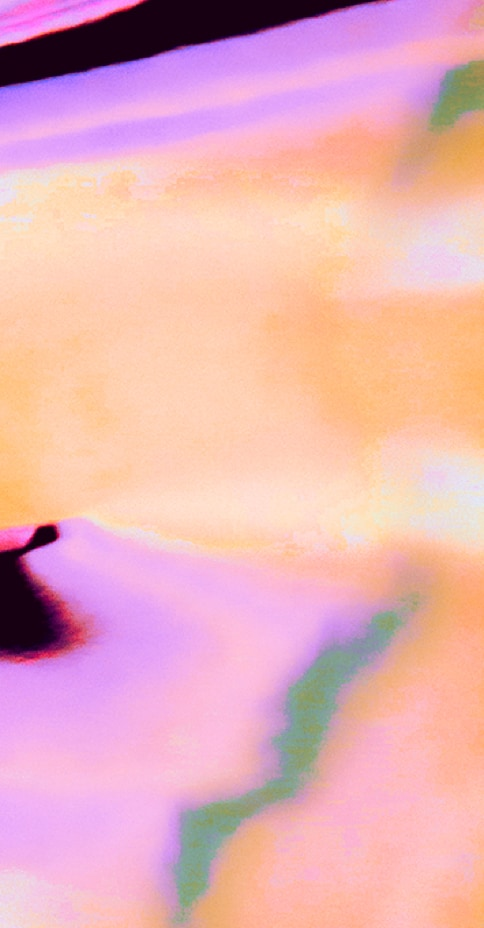
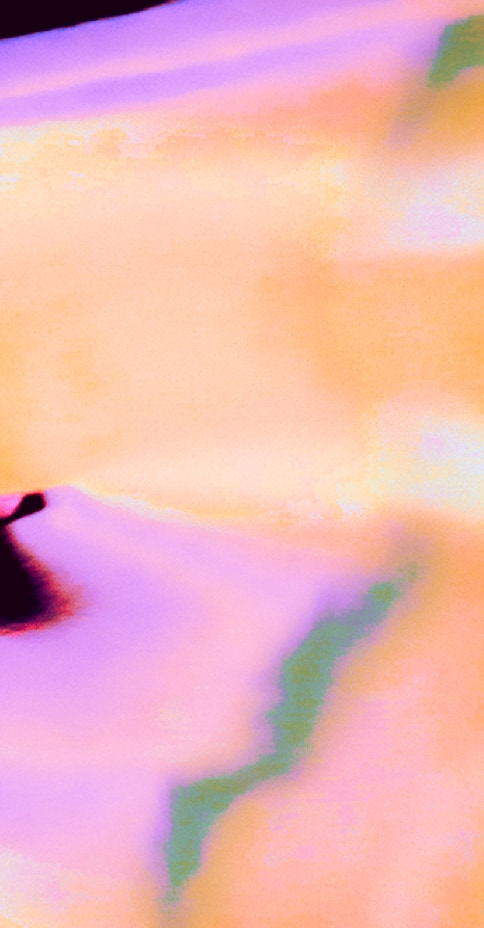
Card Cards Cards

diff --git a/src/components/sections/SpendenSection.js b/src/components/sections/SpendenSection.js
@@ -4,9 +4,9 @@ import TicketCard from "../cards/TicketCard"
 import { Link } from "gatsby"
 import FormButton from "../buttons/FormButton"
 
-import Background1 from "/static/images/Card-Bg1.jpg"
-import Background2 from "/static/images/Card-Bg2.jpg"
-import Background3 from "/static/images/Card-Bg3.jpg"
+import Background4 from "/static/images/Card-Bg4.jpg"
+import Background5 from "/static/images/Card-Bg5.jpg"
+import Background6 from "/static/images/Card-Bg6.jpg"
 
 export default function SpendenSection(props) {
   const [isCard1, setIsCard1] = useState(true)
@@ -34,7 +34,7 @@ export default function SpendenSection(props) {
               setIsCard3(false)
             }}
             singleLineDetail={true}
-            cardBackground={Background1}
+            cardBackground={Background4}
           />
           <TicketCard
             title="Initiative Musik"
@@ -52,7 +52,7 @@ export default function SpendenSection(props) {
               setIsCard2(true)
               setIsCard3(false)
             }}
-            cardBackground={Background2}
+            cardBackground={Background5}
           />
           <TicketCard
             title="Corona Künstler Hilfe"
@@ -71,7 +71,7 @@ export default function SpendenSection(props) {
               setIsCard3(true)
             }}
             singleLineDetail={true}
-            cardBackground={Background3}
+            cardBackground={Background6}
           />
         </CardWrapper>
         <ShoppingCartWrapper>

diff --git a/src/components/sections/HeroSection.js b/src/components/sections/HeroSection.js
@@ -36,7 +36,7 @@ export default function HeroSection() {
           <ImageWrapper>
             <LogoGroup>
               <Logo src="/images/Logo.png" className="logo" />
-              {/* <TicketWrapper>
+              <TicketWrapper>
                 <TicketGroup
                   to={audienceCount < maxAudience ? "/tickets" : "/voll"}
                   state={{
@@ -48,7 +48,7 @@ export default function HeroSection() {
                     {audienceCount < maxAudience ? "Tickets" : "Ausverkauft"}
                   </TicketLabel>
                 </TicketGroup>
-              </TicketWrapper> */}
+              </TicketWrapper>
             </LogoGroup>
           </ImageWrapper>
           <Right></Right>

diff --git a/src/components/sections/TicketSection.js b/src/components/sections/TicketSection.js
@@ -117,7 +117,7 @@ export default function TicketSection(props) {
         </CardWrapper>
         <InfoWrapper>
           <InfoText1>
-            Tickets — die Tickets sind personalisiert. Pro Person und E-Mail
+            Tickets — Die Tickets sind personalisiert. Pro Person und E-Mail
             kann nur ein Ticket erworben werden. Auto- und Campertickets sind
             nur in Kombination mir einem Festivalticket erhältlich.
           </InfoText1>
